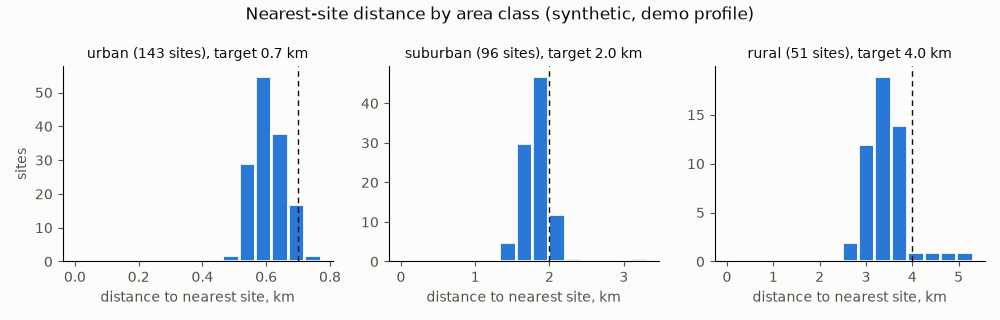
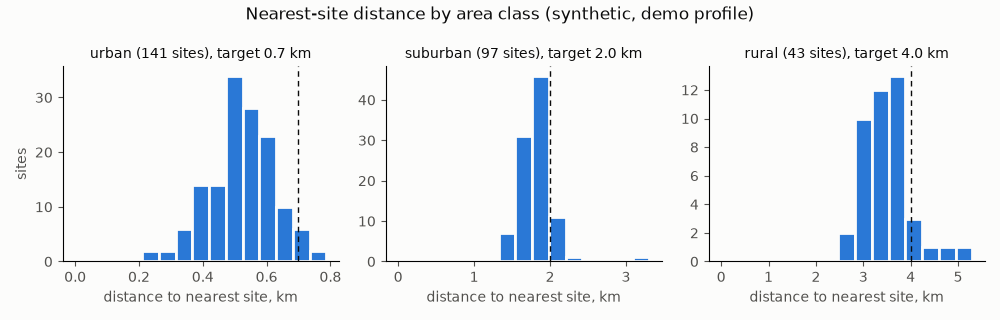
feat: jitter city sites more and keep sites off the map edge

diff --git a/src/ran_lakehouse/world/report.py b/src/ran_lakehouse/world/report.py
@@ -186,7 +186,8 @@ def start_values() -> dict[str, Any]:
         "urban_min_density_per_km2 (START)": P.URBAN_MIN_DENSITY,
         "suburban_min_density_per_km2 (START)": P.SUBURBAN_MIN_DENSITY,
         "isd_km (START)": P.ISD_KM,
-        "site_jitter_fraction (ASSUMPTION)": P.SITE_JITTER_FRACTION,
+        "site_jitter_fraction (urban START, else ASSUMPTION)": P.SITE_JITTER_FRACTION,
+        "map_edge_margin_km (START)": P.MAP_EDGE_MARGIN_KM,
         "min_spacing_fraction (ASSUMPTION)": P.MIN_SPACING_FRACTION,
         "class_smoothing_km (ASSUMPTION)": CLASS_SMOOTHING_KM,
         "sectors (W6, ASSUMPTION)": P.SECTORS,
@@ -393,7 +394,8 @@ def notes(record: dict[str, Any]) -> list[str]:
     tiny = record["profiles"]["tiny"]
     start = record["start_values"]
     isd = start["isd_km (START)"]
-    jitter = round(100 * start["site_jitter_fraction (ASSUMPTION)"])
+    jitter = start["site_jitter_fraction (urban START, else ASSUMPTION)"]
+    jitter_text = ", ".join(f"{c} {round(100 * v)}%" for c, v in jitter.items())
     smoothing = start["class_smoothing_km (ASSUMPTION)"]
     spacing = start["min_spacing_fraction (ASSUMPTION)"]
     nn = demo["nearest_site_km"]
@@ -404,9 +406,12 @@ def notes(record: dict[str, Any]) -> list[str]:
     gsm_sites = sites["by_technology"].get("LTE+GSM", 0) + sites["by_technology"].get("GSM", 0)
     layers = sites["lte_layers_per_lte_site"]
     return [
-        "Inter-site distance: sites sit on a hexagonal lattice spaced at the START ISD of their "
-        f"area class, jittered by up to {jitter}% of it, so the distance to the nearest site runs "
-        f"below the lattice spacing. Median nearest-site distance against lattice ISD: {ratios}.",
+        "Inter-site distance (ISD) means the lattice spacing: sites sit on a hexagonal lattice "
+        "spaced at the START ISD of their area class, each jittered in x and y by up to a "
+        f"fraction of it ({jitter_text}), so the distance to the nearest site runs below the "
+        f"lattice spacing. Median nearest-site distance against lattice ISD: {ratios}.",
+        f"Every site stays at least {start['map_edge_margin_km (START)']} km inside the map "
+        "edge; lattice points jittered outside that margin are dropped.",
         f"Area classes are judged on density smoothed over {smoothing} km (ASSUMPTION), so a "
         "village reads as rural and a town as a whole; a site closer than "
         f"{spacing} of its class ISD to a "
@@ -414,14 +419,14 @@ def notes(record: dict[str, Any]) -> list[str]:
         f"Vendor regions: sites west of x = {sites['vendor_split_x_km']} km are Huawei-style "
         f"({sites['huawei_share']} of sites), the rest Nokia-style; {sites['urban_sites_nokia']} "
         f"of {sites['by_area_class']['urban']} urban sites fall east of the split, on the "
-        "eastern edges of the cities. The split is a design choice (rule P5).",
+        "eastern edges of the cities. The split is a design choice (rule P5), and the border "
+        "through a city is intended: cells on an inter-vendor border are a real optimization "
+        "pain point.",
         f"Technology (rule W6, shares of cells): LTE {demo['cells']['lte_share']} of cells; GSM "
         f"on {gsm_sites} of {sites['total']} sites, {sites['by_technology'].get('GSM', 0)} of "
         f"them GSM-only rural sites; {layers} LTE layers per LTE site on average.",
-        f"Tiny profile: {tiny['sites']['total']} sites and {tiny['cells']['total']} cells from "
-        "the same generator and band rules. The START asked for about 7 sites and about 20 "
-        f"cells; with about {layers} LTE layers per site, 7 sites would carry about "
-        f"{round(7 * 3 * layers)} cells, so the two targets cannot both hold.",
+        f"Tiny profile (rule W7): {tiny['sites']['total']} sites and "
+        f"{tiny['cells']['total']} cells from the same generator and band rules.",
         "Names: DNs follow TS 32.300 V19.0.0 clause 7. Class names are the XML solution-set "
         "spellings (TS 28.659 V20.0.0 for E-UTRAN; TS 28.656 V19.0.0 for GERAN: BssFunction, "
         "BtsSiteMgr, GsmCell), where the TS 28.655 information model writes BSSFunction, "

diff --git a/src/ran_lakehouse/world/network.py b/src/ran_lakehouse/world/network.py
@@ -17,6 +17,7 @@ from ran_lakehouse.world.profiles import (
     GSM_COSITE_SHARE,
     ISD_KM,
     LTE_EXTRA_LAYER_P,
+    MAP_EDGE_MARGIN_KM,
     MIN_SPACING_FRACTION,
     SECTOR_AZIMUTHS_DEG,
     SECTORS,
@@ -172,11 +173,14 @@ def place_sites(profile: Profile, population: PopulationLayer) -> list[tuple[flo
         isd = ISD_KM[area_class]
         for row, col, x, y in lattice(isd, profile.served_width_km, profile.height_km):
             entity = (class_index + 1) * 1_000_000 + row * 1_000 + col
-            dx, dy = (
-                rng(Purpose.SITE_JITTER, entity).uniform(-1.0, 1.0, 2) * SITE_JITTER_FRACTION * isd
-            )
-            px = float(np.clip(x + dx, 0.0, profile.served_width_km - 0.001))
-            py = float(np.clip(y + dy, 0.0, profile.height_km - 0.001))
+            jitter = SITE_JITTER_FRACTION[area_class] * isd
+            dx, dy = rng(Purpose.SITE_JITTER, entity).uniform(-1.0, 1.0, 2) * jitter
+            px, py = float(x + dx), float(y + dy)
+            # Sites stay inside the served region and away from the map edge.
+            inside_x = MAP_EDGE_MARGIN_KM <= px < profile.served_width_km
+            inside_y = MAP_EDGE_MARGIN_KM <= py <= profile.height_km - MAP_EDGE_MARGIN_KM
+            if not (inside_x and inside_y):
+                continue
             density = population.class_density_at(np.array([px]), np.array([py]))
             if str(area_class_of(density)[0]) != area_class:
                 continue
@@ -184,7 +188,11 @@ def place_sites(profile: Profile, population: PopulationLayer) -> list[tuple[flo
             # denser class's site; keep the coarser site only if it is not
             # too close to a site already placed.
             spacing = MIN_SPACING_FRACTION * isd
-            if all(np.hypot(px - sx, py - sy) >= spacing for sx, sy, _ in sites):
+            if all(
+                np.hypot(px - sx, py - sy) >= spacing
+                for sx, sy, other in sites
+                if other != area_class
+            ):
                 sites.append((px, py, area_class))
     return sites
 

diff --git a/src/ran_lakehouse/world/profiles.py b/src/ran_lakehouse/world/profiles.py
@@ -73,8 +73,12 @@ SUBURBAN_MIN_DENSITY = 850.0
 # Target inter-site distance per area class, km (START, owner decision:
 # dense urban 0.5-1, suburban about 2, rural 4-6).
 ISD_KM = {"urban": 0.7, "suburban": 2.0, "rural": 4.0}
-# Site position jitter as a fraction of the class ISD (ASSUMPTION).
-SITE_JITTER_FRACTION = 0.15
+# Site position jitter as a fraction of the class ISD, uniform in x and y;
+# urban START 0.30 so city grids do not read as perfect lattices, else
+# ASSUMPTION 0.15.
+SITE_JITTER_FRACTION = {"urban": 0.30, "suburban": 0.15, "rural": 0.15}
+# Every site stays at least this far inside the map edge, km (START).
+MAP_EDGE_MARGIN_KM = 0.5
 # A site is dropped if it is closer than this fraction of its own class ISD
 # to a site already placed (ASSUMPTION).
 MIN_SPACING_FRACTION = 0.7
@@ -85,7 +89,7 @@ AZIMUTH_JITTER_SD_DEG = 10.0  # ASSUMPTION
 
 # Share of sites per area class that also carry GSM (START, rule W6: about
 # a third of sites overall).
-GSM_COSITE_SHARE = {"urban": 0.25, "suburban": 0.3, "rural": 0.55}
+GSM_COSITE_SHARE = {"urban": 0.25, "suburban": 0.3, "rural": 0.6}
 
 # Probability that a site of each class carries each extra LTE layer; B3
 # 1800 is on every LTE site (START, owner decision on the band mix).

diff --git a/results/world.md b/results/world.md
@@ -36,45 +36,45 @@ Map 60.0 x 40.0 km; served region x < 40.0 km, expansion area east of it (rule W
 
 | Item | Sites |
 |---|---|
-| total | 290 |
-| area class urban | 143 |
-| area class suburban | 96 |
-| area class rural | 51 |
-| vendor huawei | 181 |
-| vendor nokia | 109 |
-| Huawei-style share | 0.624 |
-| technology GSM | 3 |
-| technology LTE | 197 |
-| technology LTE+GSM | 90 |
+| total | 281 |
+| area class urban | 141 |
+| area class suburban | 97 |
+| area class rural | 43 |
+| vendor huawei | 183 |
+| vendor nokia | 98 |
+| Huawei-style share | 0.651 |
+| technology GSM | 5 |
+| technology LTE | 193 |
+| technology LTE+GSM | 83 |
 
 ### Cells
 
 | Item | Cells |
 |---|---|
-| total | 1824 |
-| technology GSM | 279 |
-| technology LTE | 1545 |
-| LTE share of cells | 0.847 |
-| band B1 | 339 |
-| band B28 | 63 |
-| band B3 | 861 |
-| band B40 | 192 |
-| band B8 | 90 |
+| total | 1716 |
+| technology GSM | 264 |
+| technology LTE | 1452 |
+| LTE share of cells | 0.846 |
+| band B1 | 336 |
+| band B28 | 36 |
+| band B3 | 828 |
+| band B40 | 186 |
+| band B8 | 66 |
 | band G1800 | 90 |
-| band G900 | 189 |
-| class EUtranCellFDD | 1353 |
-| class EUtranCellTDD | 192 |
-| class GsmCell | 279 |
-| vendor huawei | 1143 |
-| vendor nokia | 681 |
+| band G900 | 174 |
+| class EUtranCellFDD | 1266 |
+| class EUtranCellTDD | 186 |
+| class GsmCell | 264 |
+| vendor huawei | 1134 |
+| vendor nokia | 582 |
 
 ### Nearest-site distance, km
 
 | Area class | Sites | p10 | Median | p90 |
 |---|---|---|---|---|
-| urban | 143 | 0.54 | 0.61 | 0.67 |
-| suburban | 96 | 1.58 | 1.81 | 2.1 |
-| rural | 51 | 3.08 | 3.39 | 3.84 |
+| urban | 141 | 0.39 | 0.52 | 0.65 |
+| suburban | 97 | 1.58 | 1.81 | 2.07 |
+| rural | 43 | 3.06 | 3.49 | 4.0 |
 
 ## Tiny profile
 
@@ -82,11 +82,12 @@ Map 11.0 x 4.0 km; 5 sites, 27 cells (B1 9, B3 15, G900 3).
 
 ## Notes
 
-- Inter-site distance: sites sit on a hexagonal lattice spaced at the START ISD of their area class, jittered by up to 15% of it, so the distance to the nearest site runs below the lattice spacing. Median nearest-site distance against lattice ISD: urban 0.61 of 0.7 km (0.87), suburban 1.81 of 2.0 km (0.91), rural 3.39 of 4.0 km (0.85).
+- Inter-site distance (ISD) means the lattice spacing: sites sit on a hexagonal lattice spaced at the START ISD of their area class, each jittered in x and y by up to a fraction of it (urban 30%, suburban 15%, rural 15%), so the distance to the nearest site runs below the lattice spacing. Median nearest-site distance against lattice ISD: urban 0.52 of 0.7 km (0.74), suburban 1.81 of 2.0 km (0.91), rural 3.49 of 4.0 km (0.87).
+- Every site stays at least 0.5 km inside the map edge; lattice points jittered outside that margin are dropped.
 - Area classes are judged on density smoothed over 1.5 km (ASSUMPTION), so a village reads as rural and a town as a whole; a site closer than 0.7 of its class ISD to a denser class's site is dropped (ASSUMPTION).
-- Vendor regions: sites west of x = 12.5 km are Huawei-style (0.624 of sites), the rest Nokia-style; 8 of 143 urban sites fall east of the split, on the eastern edges of the cities. The split is a design choice (rule P5).
-- Technology (rule W6, shares of cells): LTE 0.847 of cells; GSM on 93 of 290 sites, 3 of them GSM-only rural sites; 1.79 LTE layers per LTE site on average.
-- Tiny profile: 5 sites and 27 cells from the same generator and band rules. The START asked for about 7 sites and about 20 cells; with about 1.79 LTE layers per site, 7 sites would carry about 38 cells, so the two targets cannot both hold.
+- Vendor regions: sites west of x = 12.5 km are Huawei-style (0.651 of sites), the rest Nokia-style; 5 of 141 urban sites fall east of the split, on the eastern edges of the cities. The split is a design choice (rule P5), and the border through a city is intended: cells on an inter-vendor border are a real optimization pain point.
+- Technology (rule W6, shares of cells): LTE 0.846 of cells; GSM on 88 of 281 sites, 5 of them GSM-only rural sites; 1.75 LTE layers per LTE site on average.
+- Tiny profile (rule W7): 5 sites and 27 cells from the same generator and band rules.
 - Names: DNs follow TS 32.300 V19.0.0 clause 7. Class names are the XML solution-set spellings (TS 28.659 V20.0.0 for E-UTRAN; TS 28.656 V19.0.0 for GERAN: BssFunction, BtsSiteMgr, GsmCell), where the TS 28.655 information model writes BSSFunction, BTSSiteMgr, GSMCell.
 
 ## Determinism
@@ -96,7 +97,7 @@ profiles and compares.
 
 | Profile | SHA-256 |
 |---|---|
-| demo | 19ef353c2788c132a22bc53a15c0804644038475d83550a45517e85e275c5e56 |
+| demo | 763dbf5652bb5b9fdc50b2275b595da5fb63052d46b4f3fbd9d2cb7080590e84 |
 | tiny | 708ba63770b56a6756662ef66b355981813011853e6b83ee3a19f8b42d4321d5 |
 
 ## START and ASSUMPTION values
@@ -107,12 +108,13 @@ profiles and compares.
 | urban_min_density_per_km2 (START) | 2900.0 |
 | suburban_min_density_per_km2 (START) | 850.0 |
 | isd_km (START) | {"urban": 0.7, "suburban": 2.0, "rural": 4.0} |
-| site_jitter_fraction (ASSUMPTION) | 0.15 |
+| site_jitter_fraction (urban START, else ASSUMPTION) | {"urban": 0.3, "suburban": 0.15, "rural": 0.15} |
+| map_edge_margin_km (START) | 0.5 |
 | min_spacing_fraction (ASSUMPTION) | 0.7 |
 | class_smoothing_km (ASSUMPTION) | 1.5 |
 | sectors (W6, ASSUMPTION) | 3 |
 | azimuth_jitter_sd_deg (ASSUMPTION) | 10.0 |
-| gsm_cosite_share (START) | {"urban": 0.25, "suburban": 0.3, "rural": 0.55} |
+| gsm_cosite_share (START) | {"urban": 0.25, "suburban": 0.3, "rural": 0.6} |
 | lte_extra_layer_p (START; B3 on every LTE site) | {"urban": {"B1": 0.6, "B40": 0.3}, "suburban": {"B1": 0.3, "B40": 0.15}, "rural": {"B8": 0.5, "B28": 0.3}} |
 | demo vendor_split_x_km (START, design choice) | 12.5 |
 | demo gsm_only_share_rural (START) | 0.08 |

diff --git a/docs/spec.md b/docs/spec.md
@@ -60,7 +60,7 @@ measured scale test, rule E1).
   - vendors: two vendor dialects by region (rule P5); the split is a
     design choice, since no public regional split exists.
 - W7 Profiles, one generator:
-  - tiny: about 20 cells, 2 days (tests, CI, seconds);
+  - tiny: about 5 sites (about 27 cells), 2 days (tests, CI, seconds);
   - demo: about 300 sites, about 1,500 LTE and 300 GSM cells, 12 weeks at
     15-minute granularity; planning area about 150 villages and 60
     candidate sites (evaluation, replay site);
@@ -169,6 +169,9 @@ measured scale test, rule E1).
   with object classes per the NRMs: LTE TS 28.658 (ENBFunction,
   EUtranCellFDD, EUtranCellTDD, EUtranRelation), GSM TS 28.655
   (BSSFunction, BTSSiteMgr, GSMCell, GSMRelation). DNs per TS 32.300.
+  DNs and files use the XML solution-set spellings: TS 28.659 for E-UTRAN
+  (the same names) and TS 28.656 for GERAN (BssFunction, BtsSiteMgr,
+  GsmCell, GsmRelation).
 - C2 FM: an alarm log with X.733 fields (perceivedSeverity, eventType,
   probableCause, specificProblem), raise and clear times, per TS 32.111-2
   style for LTE and GSM.
